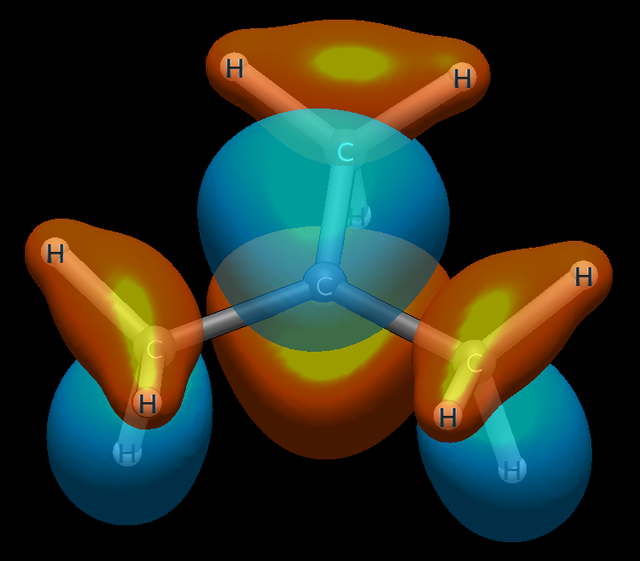
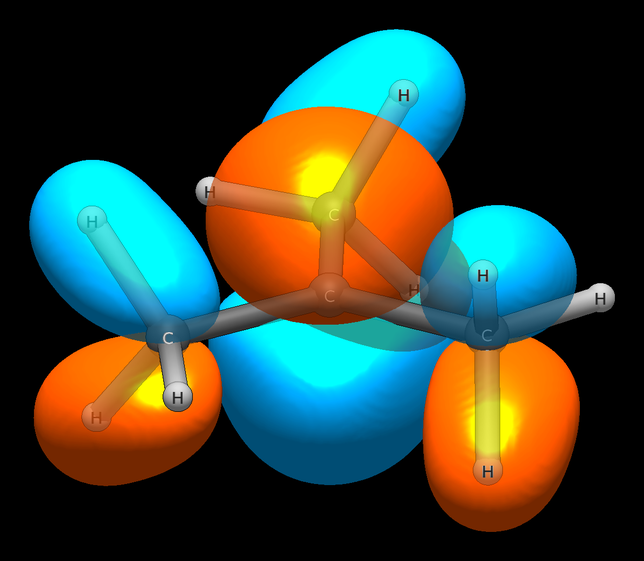
docs: minimum-geometry t-butyl LUMO; 6+3 hyperconjugation split

diff --git a/examples/carbocations.md b/examples/carbocations.md
@@ -92,19 +92,21 @@ bridging stabilises ethylium by filling the empty orbital with a 3c–2e
 bond that t-butyl cannot form.
 
 ![tert-Butyl LUMO — empty p on the carbenium carbon](img/tbutyl_lumo_empty_p.png)
-*Orbital 17 (LUMO): the classic empty p — 80.0% on C1, pure 2py —
-with 4.5% tails on each methyl carbon, the hyperconjugative
-delocalization rendered. (Render from the pre-re-opt geometry; the
-minimum's LUMO is the same orbital to 0.5%.)*
+*Orbital 17 (LUMO) at the minimum geometry: the classic empty p —
+80.0% on C1, pure 2py — with 4.5% tails on each methyl carbon, the
+hyperconjugative delocalization rendered.*
 
-Hyperconjugation, quantified — and reshaped by the true minimum. Six
-C–H bonds (orbitals 8–13) carry ~3.4% C1 tails with through-bond C1–H
-Wibergs of ~0.04; three near-perpendicular bonds (orbitals 14–16, no
-C1 tail) sit below the print threshold. An earlier saddle-point
-geometry showed a cleaner axial/equatorial split (0.059 vs 0.012);
-relaxing the methyl registration to the staggered minimum spreads the
-donation across six donors instead of three. The C–C 1.126 orders carry
-the same signature: slight π character from methyl donation, far below
+Hyperconjugation, quantified — and sharpened by the true minimum. The
+nine C–H bonds split 6+3 around the empty p: six in-plane donors
+(orbitals 8–13, ~3.4% C1 tails, through-bond C1–H ~0.04) depleted to
+C–H 0.915–0.920 with their hydrogens at +0.136–0.138, against three
+near-perpendicular bonds (orbitals 14–16, no C1 tail) at full strength
+0.975 with hydrogens at +0.103. Donation reads as depletion — the bonds
+that give carry less order, and their hydrogens carry more positive
+charge. An earlier saddle-point geometry showed the same physics as a
+3+6 axial/equatorial split (0.059 vs 0.012); the staggered minimum
+spreads it across six donors instead. The C–C 1.126 orders carry the
+same signature: slight π character from methyl donation, far below
 true bridging.
 
 ## 2-Norbornyl, C₇H₁₁⁺ — the historical system itself
